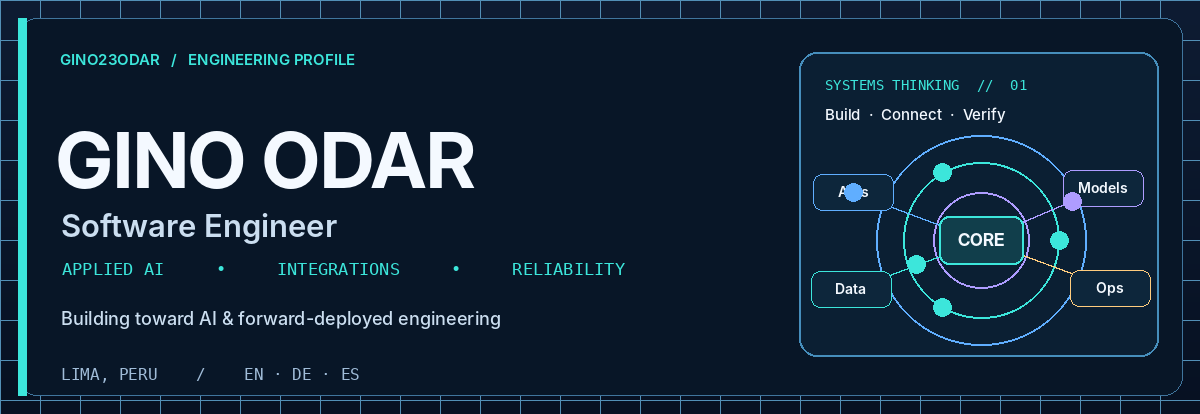
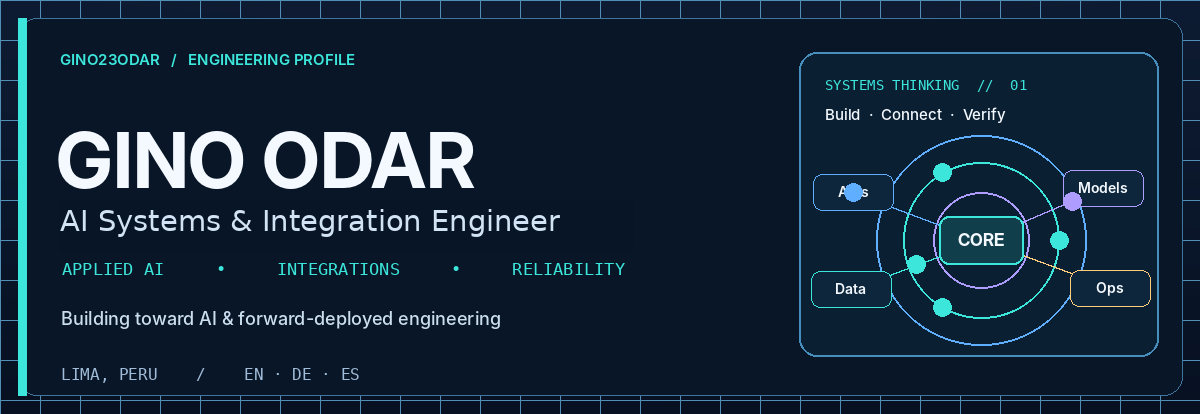
modified hero and added terminal preview

Changed region(s): [[0.0308, 0.4928, 0.4625, 0.6087]]

diff --git a/README.md b/README.md
@@ -1,63 +1,82 @@
-<!-- GINO ODAR / AI SYSTEMS x FORWARD-DEPLOYED ENGINEERING -->
-<!-- All visual assets are local, dependency-free images. No widgets display simulated live data. -->
+<!-- GINO ODAR / AI SYSTEMS & INTEGRATION ENGINEERING -->
+<!-- GINO.OS is a planned interactive portfolio, not a live service. -->
+<!-- Featured projects are regenerated from config/projects.json. -->
 
 <div align="center">
-  <img src="./assets/hero-ai-systems.gif" width="100%" alt="Gino Odar, software engineer: animated high-contrast systems-inspired hero banner" />
+  <img src="./assets/hero-ai-systems.gif" width="100%" alt="Animated Gino Odar banner: AI Systems and Integration Engineer; applied AI, integrations and reliability" />
   <br /><br />
   <a href="https://www.ginoodar.com"><b>Portfolio</b></a> &nbsp;·&nbsp;
   <a href="https://www.linkedin.com/in/gino-odar/"><b>LinkedIn</b></a> &nbsp;·&nbsp;
   <a href="https://github.com/gino23odar?tab=repositories"><b>Repositories</b></a>
 </div>
 
-### `> whoami`
+### `whoami`
 
-I'm **Gino**, a software engineer based in Lima, Peru. My work spans **backend development, APIs, product integrations, troubleshooting, and software quality**. I've worked on reporting workflows and third-party advertising integrations at **Ensolvers / HYROS**, following issues across application layers and validating their behavior.
+I'm **Gino**, an **AI Systems & Integration Engineer** based in Lima, Peru, with a foundation in **backend development, API integrations, quality engineering and production troubleshooting**. I work across application layers to understand why systems behave the way they do — from services and data flows to user-facing behavior and automated tests.
 
-I'm moving toward **AI engineering and forward-deployed engineering**: work that connects engineering depth with ambiguous real-world problems. The parts I particularly enjoy are understanding the constraints, integrating systems, tracking down failures, and making a solution useful beyond the demo.
+My focus is moving toward **applied AI and forward-deployed engineering**: connecting models to real systems, designing dependable tool integrations, evaluating outcomes and shipping software that solves an actual problem. My public work includes a collaborative LLM hackathon project, a full-stack prototype with pluggable providers, and tested Python engineering projects.
 
-My public AI-related work includes a **collaborative LLM hackathon project** and a **full-stack prototype with swappable provider interfaces**. I'm developing deeper experience with model integrations, retrieval, evaluations, and production delivery patterns.
+**What I bring:** backend and integration experience, systematic debugging, Playwright-based QA, and an engineering mindset that treats observability, permissions and evaluation as part of the product — not an afterthought.
 
-<div align="center">
-  <img src="./assets/field-engineering-loop.gif" width="100%" alt="Animated four-stage engineering approach: discover, integrate, verify, improve" />
-</div>
+**Navigation:** [GINO.OS](#ginoos) · [Experience](#professional-engineering-experience) · [Projects](#selected-public-work) · [Engineering stack](#engineering-foundation) · [AI toolkit](#ai-engineering-toolkit) · [Architecture](#applied-ai-systems) · [Contact](#connect)
 
-### `01 / Applied AI systems — how I think about the stack`
+---
 
-<div align="center">
-  <img src="./assets/ai-reference-architecture.gif" width="100%" alt="Animated conceptual AI architecture connecting input surfaces, routing, orchestration, retrieval, enterprise tools, model gateway, quality gates, delivery, feedback, and representative tool examples" />
-</div>
+## GINO.OS
 
-**Good AI applications are more than a model call.** The hard part is often the surrounding system: access to context, integration with tools, validation of outputs, observability, and iteration based on what actually happens.
-
-> **Reference diagram, not a project claim:** This is a conceptual AI system with representative tooling placements, **not** a diagram of a deployed solution or my employer's infrastructure. The tools listed below reflect engineering technologies I've used, while the AI architecture illustrates the direction I'm developing toward.
-
-### `02 / Engineering foundation`
+**Interactive portfolio · In development**
 
 <div align="center">
-  <img src="./assets/engineering-foundation.svg" width="100%" alt="Engineering focus diagram covering backend systems, integrations, product delivery, and reliability" />
+  <img src="./assets/gino-os-terminal-preview.svg" width="100%" alt="Static concept for GINO.OS, a future natural-language portfolio terminal; not currently interactive" />
 </div>
 
-| Focus | Technologies and practices |
-| :-- | :-- |
-| **Backend & distributed services** | Java, Spring Boot, Node.js, Express, Python, REST APIs, Kafka |
-| **Search, analytics & databases** | **OpenSearch, ClickHouse**, PostgreSQL, MySQL, SQLite, SQL |
-| **CI/CD & infrastructure** | **Jenkins, Semaphore CI**, Docker, Linux, Git, AWS tooling, Bash |
-| **Observability & diagnostics** | **New Relic, Amazon CloudWatch**, application logs, debugging across services |
-| **Quality engineering** | Playwright, Selenium, JUnit, Mockito, automated and regression testing |
-| **Frontend & mobile** | TypeScript, JavaScript, React, Next.js, React Native |
-| **AI experimentation & direction** | LLM-assisted applications, Streamlit, local model workflows; growing toward RAG, tool use and evaluation |
+**Coming next:** A GitHub Pages-based terminal where visitors can ask questions about my professional experience, inspect project source code and explore engineering decisions. The responses will be grounded in verified, public portfolio data. A future GitHub Issues + Actions interface may also support questions directly from the GitHub ecosystem.
 
+*This is a concept preview, not a live prompt input or deployed AI agent.* Until launch, use these GitHub-native shortcuts:
 
-<div align="center">
-  <img src="./assets/engineering-toolkit.svg" width="100%" alt="Six-category engineering toolkit graphic including Java, Spring Boot, Kafka, OpenSearch, ClickHouse, Jenkins, Semaphore CI, New Relic, CloudWatch, Docker, AWS, Playwright, React, and more" />
-</div>
+<details>
+<summary><b>⌁ $ help</b> — Navigate this profile</summary>
 
-<sub>Tool names describe technology familiarity and experience, not certifications or claims that every tool was used within the same architecture. **AI experimentation** and **future AI engineering interests** are deliberately distinguished from production expertise.</sub>
+- [`whoami` → professional introduction](#whoami)
+- [`experience` → backend, integrations & QA](#professional-engineering-experience)
+- [`projects` → open-source work](#selected-public-work)
+- [`stack` → engineering toolkit](#engineering-foundation)
+- [`ai` → tools & approaches I'm exploring](#ai-engineering-toolkit)
+- [`architecture` → AI systems reference diagram](#applied-ai-systems)
 
+</details>
 
-### `03 / Selected public work`
+<details>
+<summary><b>⌁ $ projects</b> — Explore source code</summary>
 
-<sub>These cards are generated from a configurable project catalog. Swap featured projects by editing [config/projects.json](./config/projects.json).</sub>
+Browse the [featured projects below](#selected-public-work), or [view all public repositories](https://github.com/gino23odar?tab=repositories). Featured project cards link to actual repositories and can be swapped without changing the layout.
+
+</details>
+
+<details>
+<summary><b>⌁ $ experience</b> — Explore professional background</summary>
+
+My experience includes backend services, advertising API integrations, analytics/reporting workflows, QA automation with **Playwright**, regression analysis, database investigation, and debugging with logs and observability tools. [See the full summary](#professional-engineering-experience).
+
+</details>
+
+---
+
+## Professional engineering experience
+
+My professional work has spanned **backend development, integrations, technical investigation and software quality** across a production software environment:
+
+- **Backend & integration engineering:** Worked with Java / Spring Boot services, REST APIs, reporting and attribution workflows, and third-party advertising integrations. Investigated issues that cross service, database and frontend boundaries.
+- **QA automation & reliability:** Worked with **Playwright** for UI and end-to-end testing, reproducible staging scenarios, regression coverage, and validation of complex reporting interactions. Investigated flaky tests and defects that required understanding the underlying service behavior.
+- **Cross-layer debugging:** Analyzed API responses, SQL records, application logs and unexpected UI states to isolate root causes and verify fixes, including test-data setup when reproduction required controlled conditions.
+- **Monitoring & delivery:** Used **New Relic** and **Amazon CloudWatch** in issue investigation; worked in environments using **Jenkins**, **Semaphore CI**, Docker, Linux, OpenSearch and ClickHouse.
+- **Collaboration:** Worked across implementation, QA and technical troubleshooting, translating observed failures into clear reproduction steps, technical findings and verification work.
+
+Most professional code is held in private repositories. The projects below are **separate public work**, not employer source code or demonstrations of proprietary architectures.
+
+## Selected public work
+
+<sub>Cards are generated from [config/projects.json](./config/projects.json). Edit the featured list and run the generator to swap projects or rearrange them.</sub>
 
 <!-- FEATURED_PROJECTS:START -->
 
@@ -90,31 +109,74 @@ My public AI-related work includes a **collaborative LLM hackathon project** and
 
 <!-- FEATURED_PROJECTS:END -->
 
-### `04 / Professional engineering experience`
+## Engineering foundation
 
-Working with **Ensolvers / HYROS**, my experience has included:
+<div align="center">
+  <img src="./assets/engineering-foundation.svg" width="100%" alt="Engineering pillars: backend systems, integrations, product delivery and reliability" />
+</div>
 
-- Investigating failures and unexpected behavior across backend services, frontend workflows, and reporting logic.
-- Working with advertising platform integrations, external APIs, and connected data flows.
-- Reproducing problems through targeted scenarios, database inspection, and automation.
-- Using tests, logs, and observability tooling including **New Relic** and **CloudWatch** to investigate and validate behavior.
-- Working within a development environment that includes CI/CD, data, and search tooling; my toolkit includes **Jenkins, Semaphore CI, OpenSearch, and ClickHouse**.
+| Area | Technologies & practices |
+| :-- | :-- |
+| **Backend & APIs** | Java, Spring Boot, Node.js, Express, Python, REST APIs, Kafka |
+| **Data, search & analytics** | PostgreSQL, MySQL, SQLite, **OpenSearch, ClickHouse**, SQL |
+| **CI/CD & infrastructure** | **Jenkins, Semaphore CI**, GitHub Actions, Docker, Linux, Bash, AWS tooling |
+| **Observability** | **New Relic, Amazon CloudWatch**, logs, tracing and production diagnostics |
+| **QA & testing** | **Playwright**, Selenium, JUnit, Mockito, end-to-end tests, regression testing, debugging flaky tests |
+| **Frontend & mobile** | TypeScript, JavaScript, React, Next.js, React Native |
 
-This work takes place largely in private repositories. The public projects above are separate examples of work I can share, not copies of employer systems.
+<div align="center">
+  <img src="./assets/engineering-toolkit.svg" width="100%" alt="Engineering toolkit: backend, search, CI/CD, observability, QA and frontend technologies" />
+</div>
 
-### `05 / Where I'm going`
+## AI engineering toolkit
 
-I'm interested in **AI Engineer** and **Forward-Deployed Engineer** opportunities that combine practical software delivery with customer-facing problem solving. The engineering problems I want to spend more time on involve **model and tool integration, evaluation, workflows, systems reliability, and moving from prototype to useful software**.
+<div align="center">
+  <img src="./assets/ai-toolchain.svg" width="100%" alt="AI engineering focus areas: coding agents, Model Context Protocol, local models, agent workflows, evaluation and reliability" />
+</div>
 
-The goal is to bring a solid software engineering foundation into real AI-enabled products — without treating the model as the entire system.
+My focus is on **applied AI systems**, especially where AI needs to interact with real APIs, data and production tooling. I separate work I've actually built from technologies I'm studying or experimenting with:
+
+| Area | Tools, practices & status |
+| :-- | :-- |
+| **Hands-on AI work** | Collaborative **LLM + Streamlit hackathon project**; local LLM workflows with **Ollama / Qwen**; provider-abstraction prototype with mock implementations |
+| **AI developer tooling — exploring** | **Claude Code**, **OpenAI Codex**, **Model Context Protocol (MCP)** clients/servers and AI-assisted development workflows |
+| **Agent engineering — focus** | Tool/function calling, structured outputs, orchestration patterns, human-in-the-loop approval, durable workflows |
+| **Retrieval & context — focus** | Retrieval-augmented generation (RAG), hybrid search, context engineering, source-grounded responses, authorization-aware retrieval |
+| **Quality & operations — focus** | LLM evaluations, regression datasets, prompt-injection defenses, traceability, latency/cost monitoring, operational guardrails |
+
+**The principle:** It's not enough for an AI demo to answer questions. It should connect to the right information, respect access boundaries, handle failures and provide evidence that its outputs are useful.
+
+<sub>Tools labeled "exploring" or "focus" are areas of active interest and development, **not claims of professional production deployment or certification**.</sub>
+
+## Applied AI systems
+
+<div align="center">
+  <img src="./assets/field-engineering-loop.gif" width="100%" alt="Animated delivery loop: discover, integrate, verify, improve" />
+  <br /><br />
+  <img src="./assets/ai-reference-architecture.gif" width="100%" alt="Animated reference architecture: routing, orchestration, retrieval, tools, model gateway, quality checks and observability" />
+</div>
+
+I'm interested in the **full lifecycle of an AI-enabled application**: understanding constraints, integrating data and tools, controlling model behavior, writing meaningful evaluations, monitoring failures and improving the experience after launch.
+
+*Reference architecture for discussion and exploration, not a claim that I've deployed this entire stack in one customer system.*
+
+## What I'm building toward
+
+- **GINO.OS:** An interactive portfolio terminal backed by verified public career and project information; planned for GitHub Pages with a separately hosted AI API.
+- **Enterprise AI integrations:** Secure connector patterns, MCP interoperability, authorization-aware tools, orchestration and evaluation.
+- **Forward-deployed engineering:** Working directly from a real business problem through integrations, deployment, QA and measurable outcomes.
+
+I'm particularly interested in roles at the intersection of **AI engineering, platform integration and software reliability**.
 
 ---
 
+## Connect
+
 <div align="center">
-  <b>Let's connect over an interesting engineering problem.</b><br /><br />
-  <a href="https://www.ginoodar.com">Portfolio</a> &nbsp; / &nbsp;
-  <a href="https://www.linkedin.com/in/gino-odar/">LinkedIn</a> &nbsp; / &nbsp;
-  <a href="https://github.com/gino23odar">GitHub</a>
+  <b>Have an interesting systems or AI integration problem?</b><br /><br />
+  <a href="https://www.ginoodar.com">Portfolio</a> &nbsp;·&nbsp;
+  <a href="https://www.linkedin.com/in/gino-odar/">LinkedIn</a> &nbsp;·&nbsp;
+  <a href="https://github.com/gino23odar?tab=repositories">GitHub Projects</a>
   <br /><br />
-  <sub>Lima, Peru &nbsp;·&nbsp; Spanish / English / German &nbsp;·&nbsp; Illustrative architecture, not live system telemetry.</sub>
+  <sub>Lima, Peru &nbsp;·&nbsp; English / German / Spanish</sub>
 </div>
